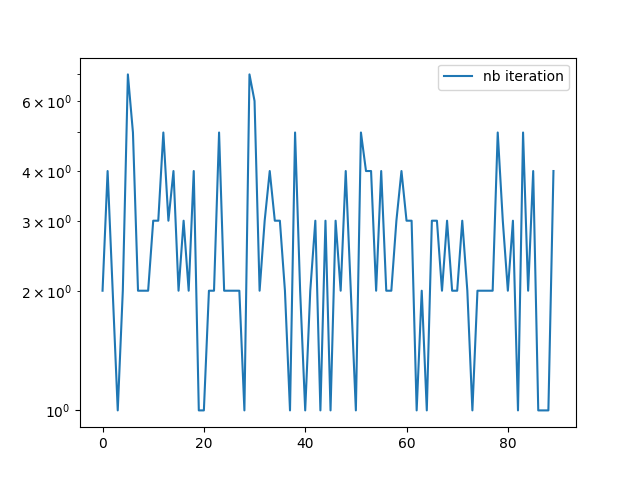
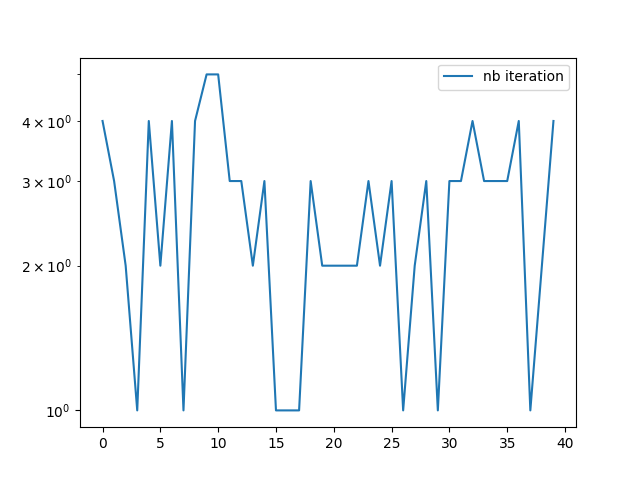
correct online_qlearning

diff --git a/online_qlearning_chat_souris/qlearning.py b/online_qlearning_chat_souris/qlearning.py
@@ -15,34 +15,35 @@ def updateQ(s_chat,s_souris,a,r,sp_chat,sp_souris,Qvalue,optimizerQ,env):
     optimizerQ.step()
     return loss.item()
 
-def qlearn(Qvalue_chat,Qvalue_souris,optimizerQ_chat,optimizerQ_souris,env, n_epochs, loadpath,loadopt, freqsave=100, epsilon = 0.1, K = 1, start = 0):
+def qlearn(Qvalue_chat,Qvalue_souris,optimizerQ_chat,optimizerQ_souris,env, n_episodes, loadpath,loadopt, freqsave=100, epsilon = 0.1, K = 1, start = 0):
     listLossQ_chat = []
     listLossQ_souris = []
     recompense_episodes = []
     recompense_chat = []
     recompense_souris = []
-    for j in range(start,n_epochs+1):
-        s_souris = torch.randint(0,env.Nx*env.Ny,(1,))
-        #print("s_souris", s_souris)
-        s_chat = torch.randint(0,env.Nx*env.Ny,(1,))
-        #step 1
-        if torch.bernoulli(torch.Tensor([epsilon])):
-            #print("random action")
-            a_chat = torch.randint(0,env.Na,(1,)) 
-        else:
-            #print("Q action")
-            a_chat = torch.argmax(Qvalue_chat([s_souris]*env.Na,[s_chat]*env.Na,torch.arange(env.Na)).squeeze()).reshape((1,))
+    for j in range(start,n_episodes+1):
+        while True:
+            s_souris = torch.randint(0,env.Nx*env.Ny,(1,))
+            #print("s_souris", s_souris)
+            s_chat = torch.randint(0,env.Nx*env.Ny,(1,))
+            #step 1
+            if torch.bernoulli(torch.Tensor([epsilon])):
+                #print("random action")
+                a_chat = torch.randint(0,env.Na,(1,)) 
+            else:
+                #print("Q action")
+                a_chat = torch.argmax(Qvalue_chat([s_souris]*env.Na,[s_chat]*env.Na,torch.arange(env.Na)).squeeze()).reshape((1,))
 
-        if torch.bernoulli(torch.Tensor([epsilon])):
-            #print("random action")
-            a_souris = torch.randint(0,env.Na,(1,)) 
-        else:
-            #print("Q action")
-            a_souris = torch.argmax(Qvalue_souris([s_souris]*env.Na, [s_chat]*env.Na, torch.arange(env.Na)).squeeze()).reshape((1,))
-        sp_chat = env.transition_chat(a_chat,s_chat,s_souris)
-        sp_souris = env.transition_souris(a_souris,s_souris,sp_chat)
-        r_chat = env.reward_souris(sp_chat,s_souris) 
-        r_souris = env.reward_souris(sp_souris,sp_chat) 
+            if torch.bernoulli(torch.Tensor([epsilon])):
+                #print("random action")
+                a_souris = torch.randint(0,env.Na,(1,)) 
+            else:
+                #print("Q action")
+                a_souris = torch.argmax(Qvalue_souris([s_souris]*env.Na, [s_chat]*env.Na, torch.arange(env.Na)).squeeze()).reshape((1,))
+            sp_chat = env.transition_chat(a_chat,s_chat,s_souris)
+            sp_souris = env.transition_souris(a_souris,s_souris,sp_chat)
+            r_chat = env.reward_souris(sp_chat,s_souris) 
+            r_souris = env.reward_souris(sp_souris,sp_chat) 
         #step 2
         for i in range(K):
             #step 3 Q update
@@ -52,7 +53,7 @@ def qlearn(Qvalue_chat,Qvalue_souris,optimizerQ_chat,optimizerQ_souris,env, n_ep
             listLossQ_souris.append(loss)
 
         if j%100==0:
-            print("epochs", j,f"/{n_epochs}")
+            print("episodes", j,f"/{n_episodes}")
             print("Loss Q souris", torch.mean(torch.Tensor(listLossQ_souris)))
             print("Loss Q chat", torch.mean(torch.Tensor(listLossQ_chat)))
             if len(recompense_episodes)>0:

diff --git a/online_qlearning/qlearning_old.py b/online_qlearning/qlearning_old.py
@@ -5,44 +5,37 @@ import os
 import matplotlib.pyplot as plt
 import numpy as np
 
-def qlearn(Qvalue,optimizerQ,env, n_episodes, loadpath,loadopt,gamma = .9, freqsave=100, epsilon = 0.1,  start = 0):
-    def policy(s):
-        if torch.bernoulli(torch.Tensor([epsilon])):
-            a = torch.randint(0,env.Na,(1,)) 
-        else:
-            a = Qvalue.argmax(s)
-        return a
+def qlearn(Qvalue,optimizerQ,env, n_epochs, loadpath,loadopt, freqsave=100, epsilon = 0.1, K = 1, start = 0):
     listLossQ = []
     recompense_episodes = []
     nb_iteration_episodes = []
+    print("K", K)
     print("freqsave", freqsave)
-    for j in range(start,n_episodes+1):
-        k = 1
+    for j in range(start,n_epochs+1):
+
+        #step 1
         s = torch.randint(0,env.Nx*env.Ny,(1,))
-        while True:
-            a = policy(s)
-            sp,r = env.transition(a,s)
-            #step 2
+        if torch.bernoulli(torch.Tensor([epsilon])):
+            a = torch.randint(0,env.Na,(1,)) 
+        else:
+            a = torch.argmax(Qvalue(env.representation([s]*env.Na), env.representationaction(torch.arange(env.Na))).squeeze()).reshape((1,))
+        sp,r = env.transition(a,s)
+        #step 2
+        for i in range(K):
             #step 3 Q update
-            Qvec = Qvalue([sp]*env.Na,torch.arange(env.Na))
-            target = r + gamma*torch.max(Qvec).detach()
+            Qvec = Qvalue(env.representation([sp]*env.Na), env.representationaction(torch.arange(env.Na))).squeeze()
+            target = r + env.gamma*torch.max(Qvec).detach()
             optimizerQ.zero_grad()
-            loss = (Qvalue(s,a) - target[0])**2
+            loss = (Qvalue(env.representation(s),env.representationaction(a)).squeeze() - target[0])**2
             loss.backward()
             optimizerQ.step()
             listLossQ.append(loss.detach().to("cpu"))
-            k+=1
-            if sp==env.G:
-                if j%100==0:
-                    print(f"episod with {k} iterations")
-                break
-            s = sp
         if j%500==0:
-            print("episodes", j,f"/{n_episodes}")
+            print("epochs", j,f"/{n_epochs}")
             print("Loss Q", torch.mean(torch.Tensor(listLossQ)))
             if len(recompense_episodes)>0:
                 #print("recompense", np.mean(recompense_episodes))
-                print("last reward", recompense_episodes[-1])
+                print("dernier retour", recompense_episodes[-1])
                 #print(recompense_episodes)
         if j%freqsave==0:
             torch.save(Qvalue.state_dict(), os.path.join(loadpath,f"q_load_{j}.pt"))
@@ -80,7 +73,7 @@ def test(Qvalue, env, epsilon, plot = False):
         if torch.bernoulli(torch.Tensor([epsilon])):
             a = torch.randint(0,env.Na,(1,)) 
         else:
-            a = Qvalue.argmax(s)
+            a = torch.argmax(Qvalue(env.representation([s]*env.Na), env.representationaction(torch.arange(env.Na))).squeeze())
         sp,R = env.transition(a,s)
         s = sp
         i+=1
@@ -89,4 +82,6 @@ def test(Qvalue, env, epsilon, plot = False):
         rewardlist.append(R)
         if s==env.G:
             break
+    #print(rewardlist)
+    #print("sortie", sum(rewardlist))
     return sum(rewardlist),i

diff --git a/online_qlearning/main.py b/online_qlearning/main.py
@@ -16,15 +16,15 @@ import matplotlib.pyplot as plt
 if __name__=="__main__":
     train = False
     testmode = True
-    start = 10000
+    start = 5000
     epsilon = 0.1
     gamma = .9
     nx = 5
     ny = 5
     G = 10
     ob = [ 6, 19, 18,  8]
-    env = grid(nx,ny,G = G, obstacles_encod = ob,gamma =gamma) 
-    Qvalue = Q(nx,ny,env.Na)
+    env = grid(nx,ny,G = G, obstacles_encod = ob) 
+    Qvalue = Q(env)
     lr = 1e-3
     optimizerQ = optim.Adam(Qvalue.parameters(), lr = lr) 
     N = 20 
@@ -39,7 +39,7 @@ if __name__=="__main__":
         optimizerQ.load_state_dict(torch.load(os.path.join(loadopt,f"opt_q_load_{start}.pt") ,weights_only = True))
 
     if train:
-        qlearn(Qvalue,optimizerQ,env, n_epochs, loadpath,loadopt, epsilon = epsilon, start = 0)
+        qlearn(Qvalue,optimizerQ,env, n_epochs, loadpath,loadopt,gamma =gamma, epsilon = epsilon, start = 0)
     if testmode:
-        iterations = test(Qvalue, env, epsilon, plot = True)
+        iterations = test(Qvalue, env, epsilon = 0, plot = True)
         print("nombre d'iterations", iterations)

diff --git a/online_qlearning/Qfunc.py b/online_qlearning/Qfunc.py
@@ -1,20 +1,23 @@
 import torch.nn as nn
 import torch
 class Q(nn.Module):
-    def __init__(self,Nx,Ny,Na):
+    def __init__(self,env):
         super(Q,self).__init__()
-        self.Nx = Nx
-        self.Ny = Ny
-        self.Na = Na
-        self.linear1 = nn.Linear(self.Ny*self.Nx + Na,16)
+        self.Nx = env.Nx
+        self.Ny = env.Ny
+        self.Na = env.Na
+        self.env = env
+        self.linear1 = nn.Linear(self.Ny*self.Nx + self.Na,16)
         self.linear2 = nn.Linear(16,16)
         self.linear3 = nn.Linear(16,1)
         self.actv = nn.ReLU()
     def forward(self, s,a):
-        x = torch.cat((s,a),dim=1)
+        x = torch.cat((self.env.representation(s),self.env.representationaction(a)),dim=1)
         out = self.linear1(x)
         out = self.actv(out)
         out = self.linear2(out)
         out = self.actv(out)
         out = self.linear3(out)
-        return out
+        return out.squeeze()
+    def argmax(self,s):
+        return torch.argmax(self.__call__([s]*self.env.Na, torch.arange(self.env.Na))).reshape((1,))

diff --git a/env/env.py b/env/env.py
@@ -8,7 +8,7 @@ class grid:
     """
     Envirnonement grille sur laquelle se deplace l'agent jusqu'à atteindre le point self.G
     """
-    def __init__(self,Nx,Ny, G = 50,gamma = .9,S = 3,epsilon=0.05, obstacles_encod = torch.Tensor([])):
+    def __init__(self,Nx,Ny, G = 50,S = 3,epsilon=0.05, obstacles_encod = torch.Tensor([])):
         assert(0<=G<Nx*Ny)
         self.actions = [(0,1), (0, -1), (1, 0), (-1, 0),
                         (1,1),(-1,1),(1,-1),(-1,-1)]
@@ -18,12 +18,10 @@ class grid:
         self.Ny = Ny
         self.R = -1
         self.G = G
-        self.gamma = gamma
+        #self.gamma = gamma
         #self.S = S
         self.states_encod = torch.eye(self.Nx*self.Ny).unsqueeze(0)
         self.obstacles_encod = obstacles_encod
-        oo = [j for j in range(self.Nx*self.Ny) if not (j in self.obstacles_encod)]
-        self.S = oo[np.random.randint(0,len(oo))]
         #placer obstacles
 
         self.actions_encod = torch.eye(self.Na).unsqueeze(0)
